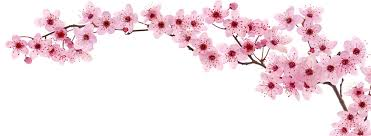
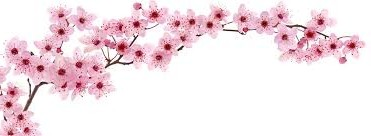
Add files via upload

diff --git a/style.css b/style.css
@@ -211,24 +211,6 @@ body.locked-scroll {
     z-index: 2;
 }
 
-.top-flower-banner {
-    position: absolute;
-    top: 0;
-    left: 0;
-    width: 100%;
-    height: 100px;
-    background-image: url('flower-banner.jpg');
-    background-size: cover;
-    background-position: top center;
-    background-repeat: no-repeat;
-    opacity: 0.5;
-    z-index: 5;
-    pointer-events: none;
-    mix-blend-mode: multiply;
-    border-top-left-radius: 12px;
-    border-top-right-radius: 12px;
-    transform: scaleX(-1);
-}
 
 .invitation-content {
     position: relative;
@@ -553,46 +535,4 @@ footer {
     letter-spacing: 1px;
 }
 
-/* Mobile Device Mock-up View for Desktop */
-@media (min-width: 500px) {
-    html {
-        background-color: #222;
-        background-image: radial-gradient(circle at center, #333 0%, #111 100%);
-        display: flex;
-        justify-content: center;
-        align-items: center;
-        min-height: 100vh;
-        overflow: hidden; /* Prevent html level scroll */
-    }
 
-    body {
-        width: 390px !important;
-        height: 844px !important;
-        max-height: 96vh !important;
-        position: relative !important;
-        margin: auto !important;
-        background-color: var(--bg-color) !important;
-        border: 12px solid #0f0f0f;
-        border-radius: 40px;
-        box-shadow: 0 25px 60px rgba(0,0,0,0.8), inset 0 0 0 4px #2a2a2a;
-        transform: translateZ(0); /* Crucial: makes body the containing block for fixed positioning */
-        overflow-x: hidden !important;
-        overflow-y: auto !important;
-        scrollbar-width: none; /* Firefox native scrollbar hide */
-    }
-
-    body::-webkit-scrollbar {
-        display: none; /* Hide scrollbar for Chrome/Safari */
-    }
-
-    body.locked-scroll {
-        overflow-y: hidden !important;
-        height: 844px !important;
-        max-height: 96vh !important;
-    }
-
-    /* Round the edges of the absolute full screen overlays to fit the physical frame */
-    #door-overlay {
-        border-radius: 28px;
-    }
-}

diff --git a/index.html b/index.html
@@ -41,7 +41,6 @@
         <!-- Section 1: The Invitation Card -->
         <section class="card-section">
             <div class="invitation-wrapper">
-                <div class="top-flower-banner"></div>
                 
                 <div class="invitation-content">
                     <div class="cross">
